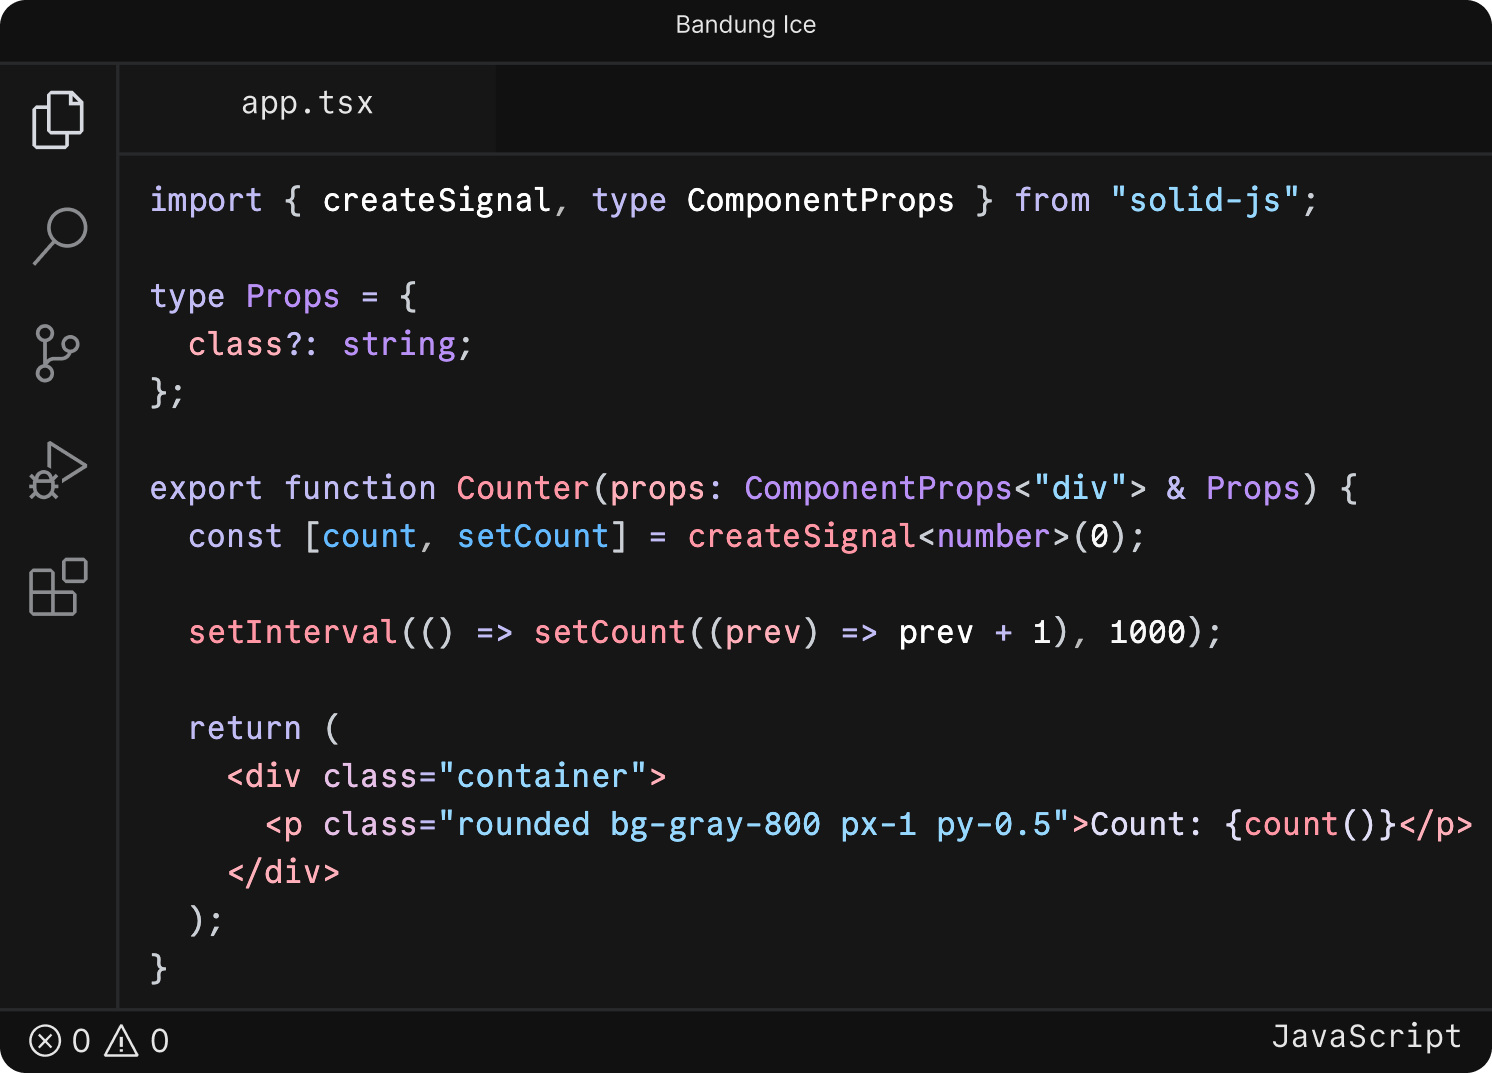
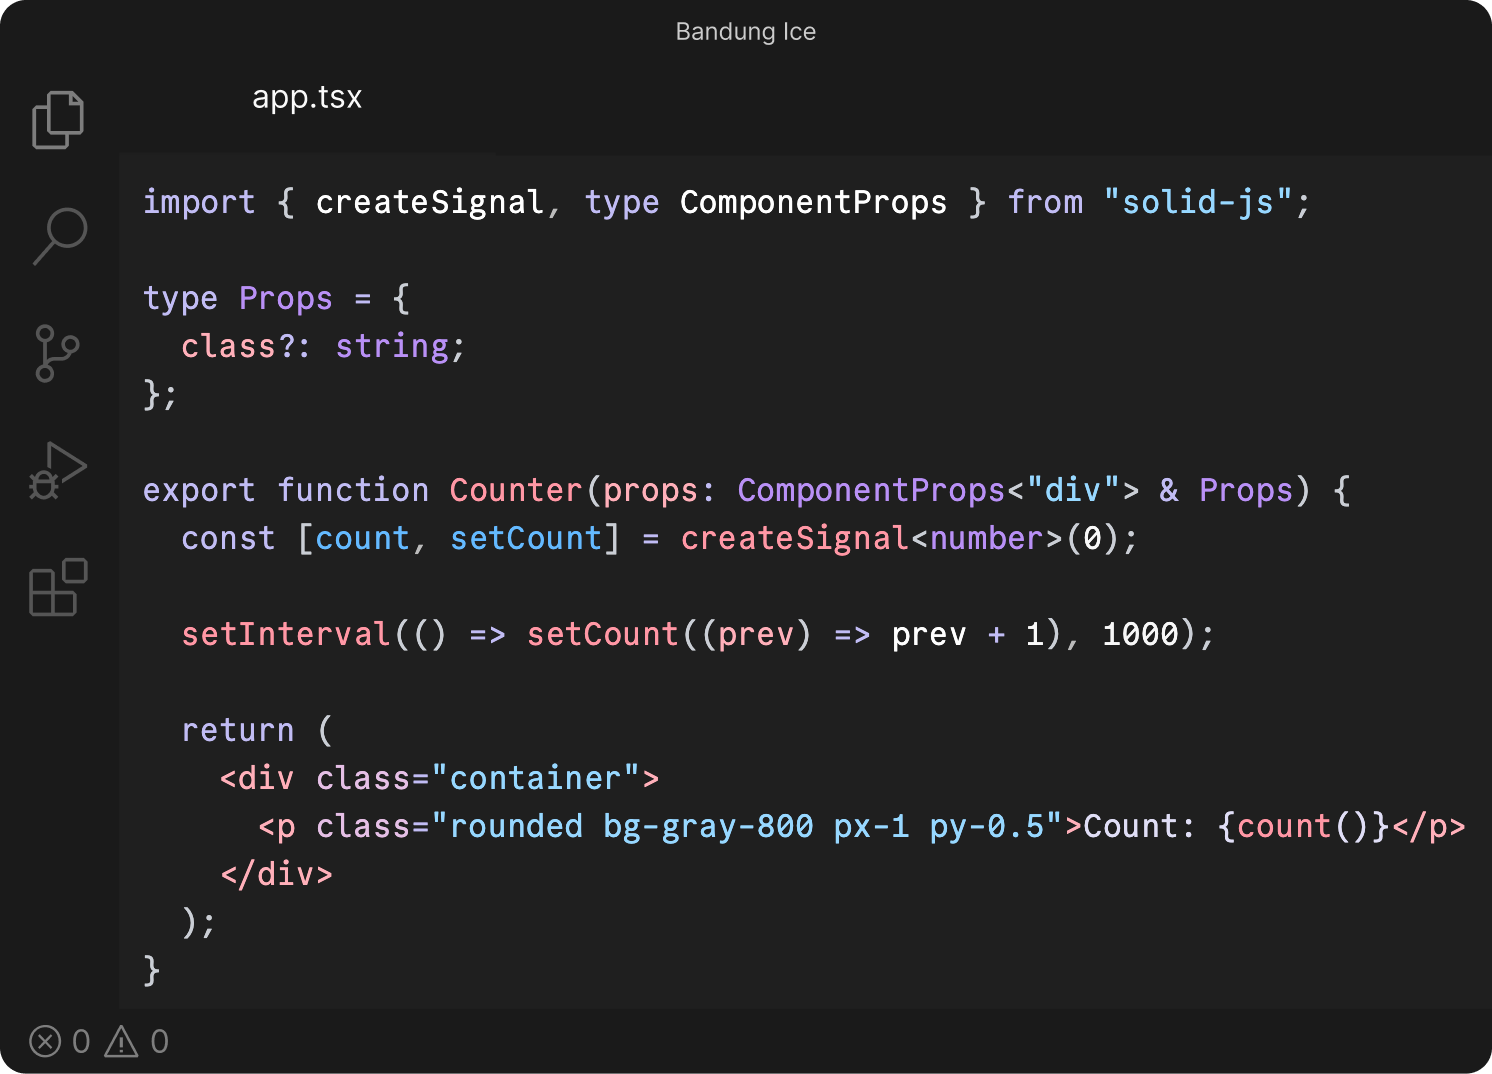
fix: themes and docs

diff --git a/assets/snippet.tsx b/assets/snippet.tsx
@@ -1,0 +1,17 @@
+import { createSignal, type ComponentProps } from "solid-js";
+
+type Props = {
+  class?: string;
+};
+
+export function Counter(props: ComponentProps<"div"> & Props) {
+  const [count, setCount] = createSignal<number>(0);
+
+  setInterval(() => setCount((prev) => prev + 1), 1000);
+
+  return (
+    <div class="container">
+      <p class="rounded bg-gray-800 px-1 py-0.5">Count: {count()}</p>
+    </div>
+  );
+}

diff --git a/README.md b/README.md
@@ -1,6 +1,8 @@
 # Bandung Ice
 
-[![Theme Preview Solid.js Code](/assets/preview-solidjs.png)](https://vscodethemes.com/e/ryanjc.bandung-ice)
+[![Preview Theme Solid.js Code](/assets/preview-solidjs.png)](https://vscodethemes.com/e/ryanjc.bandung-ice/bandung-ice)
+[![Preview Darkest Theme Solid.js Code](/assets/preview-darkest-solidjs.png)](https://vscodethemes.com/e/ryanjc.bandung-ice/bandung-ice-darkest)
+[![Preview Light ThemeSolid.js Code](/assets/preview-light-solidjs.png)](https://vscodethemes.com/e/ryanjc.bandung-ice/bandung-ice-light)
 
 [VSCode Theme](https://vscodethemes.com/e/ryanjc.bandung-ice) | [Marketplace](https://marketplace.visualstudio.com/items?itemName=ryanjc.bandung-ice)
 
